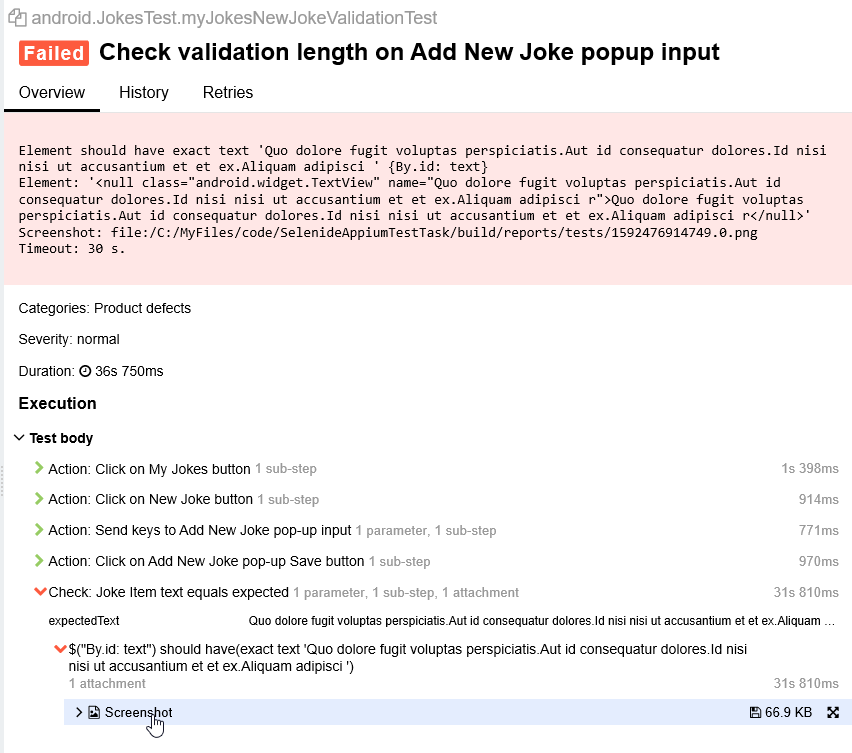
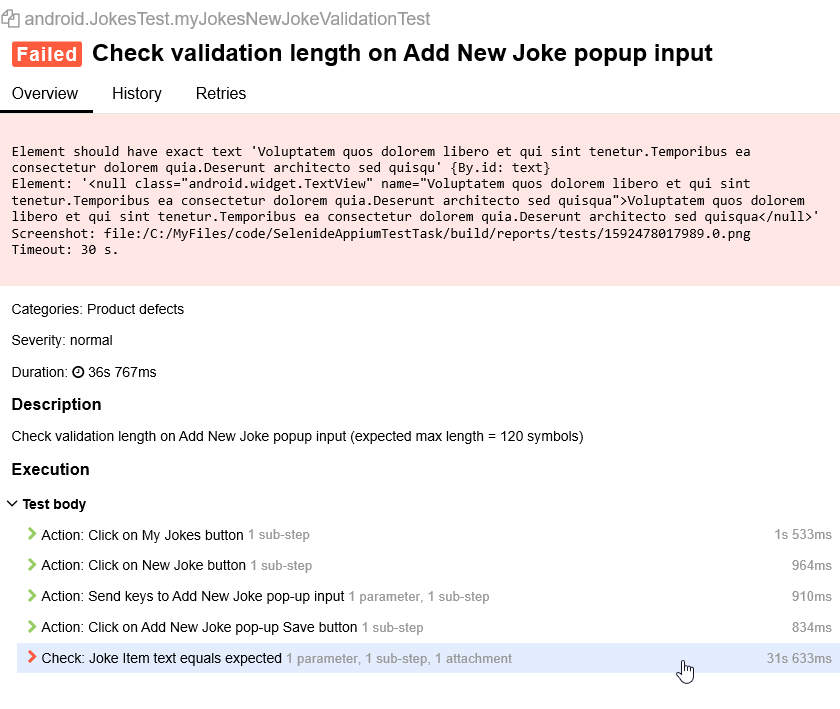
clarified test description & updated report examples

Changed region(s): [[0.0, 0.0, 1.0, 0.9619], [0.9286, 0.6206, 0.9905, 0.7137]]

diff --git a/src/test/java/android/JokesTest.java b/src/test/java/android/JokesTest.java
@@ -7,6 +7,7 @@ import android.screens.MyJokesScreen;
 import android.screens.SettingsScreen;
 import android.utils.AppiumListener;
 import com.github.javafaker.Faker;
+import io.qameta.allure.Description;
 import io.qameta.allure.Feature;
 import org.testng.annotations.Listeners;
 import org.testng.annotations.Test;
@@ -118,6 +119,7 @@ public class JokesTest {
     }
 
     @Feature("My Jokes screen")
+    @Description("Check validation length on Add New Joke popup input (expected max length = 120 symbols)")
     @Test(description = "Check validation length on Add New Joke popup input")
     public void myJokesNewJokeValidationTest() {
         String tooLongString = Faker.instance().lorem().fixedString(121);
